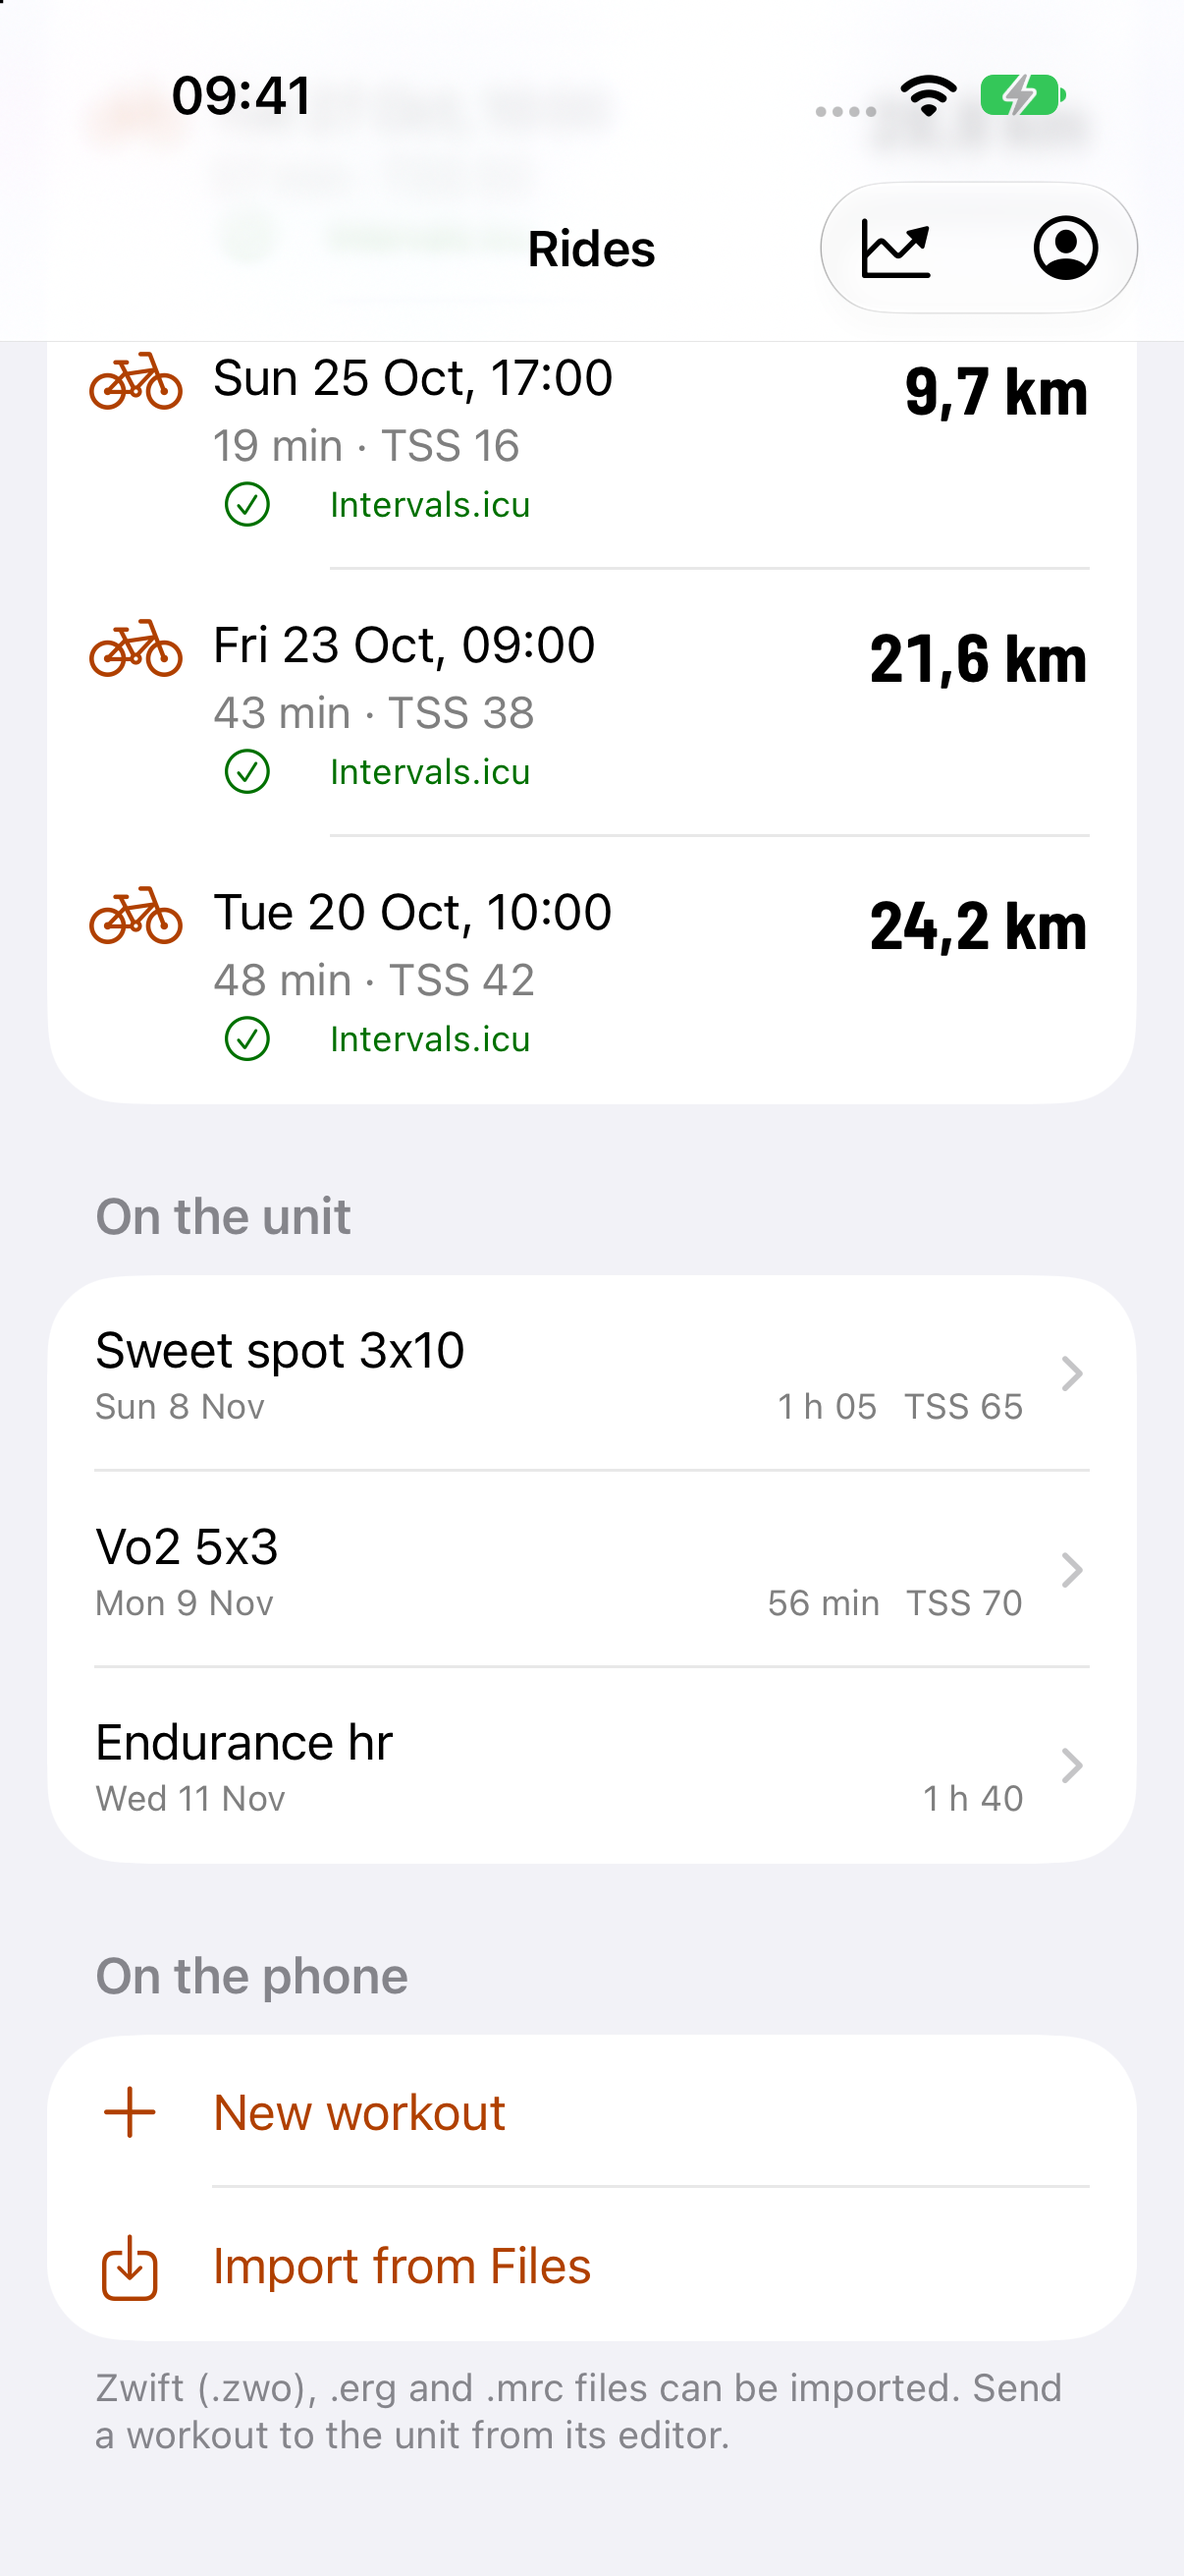
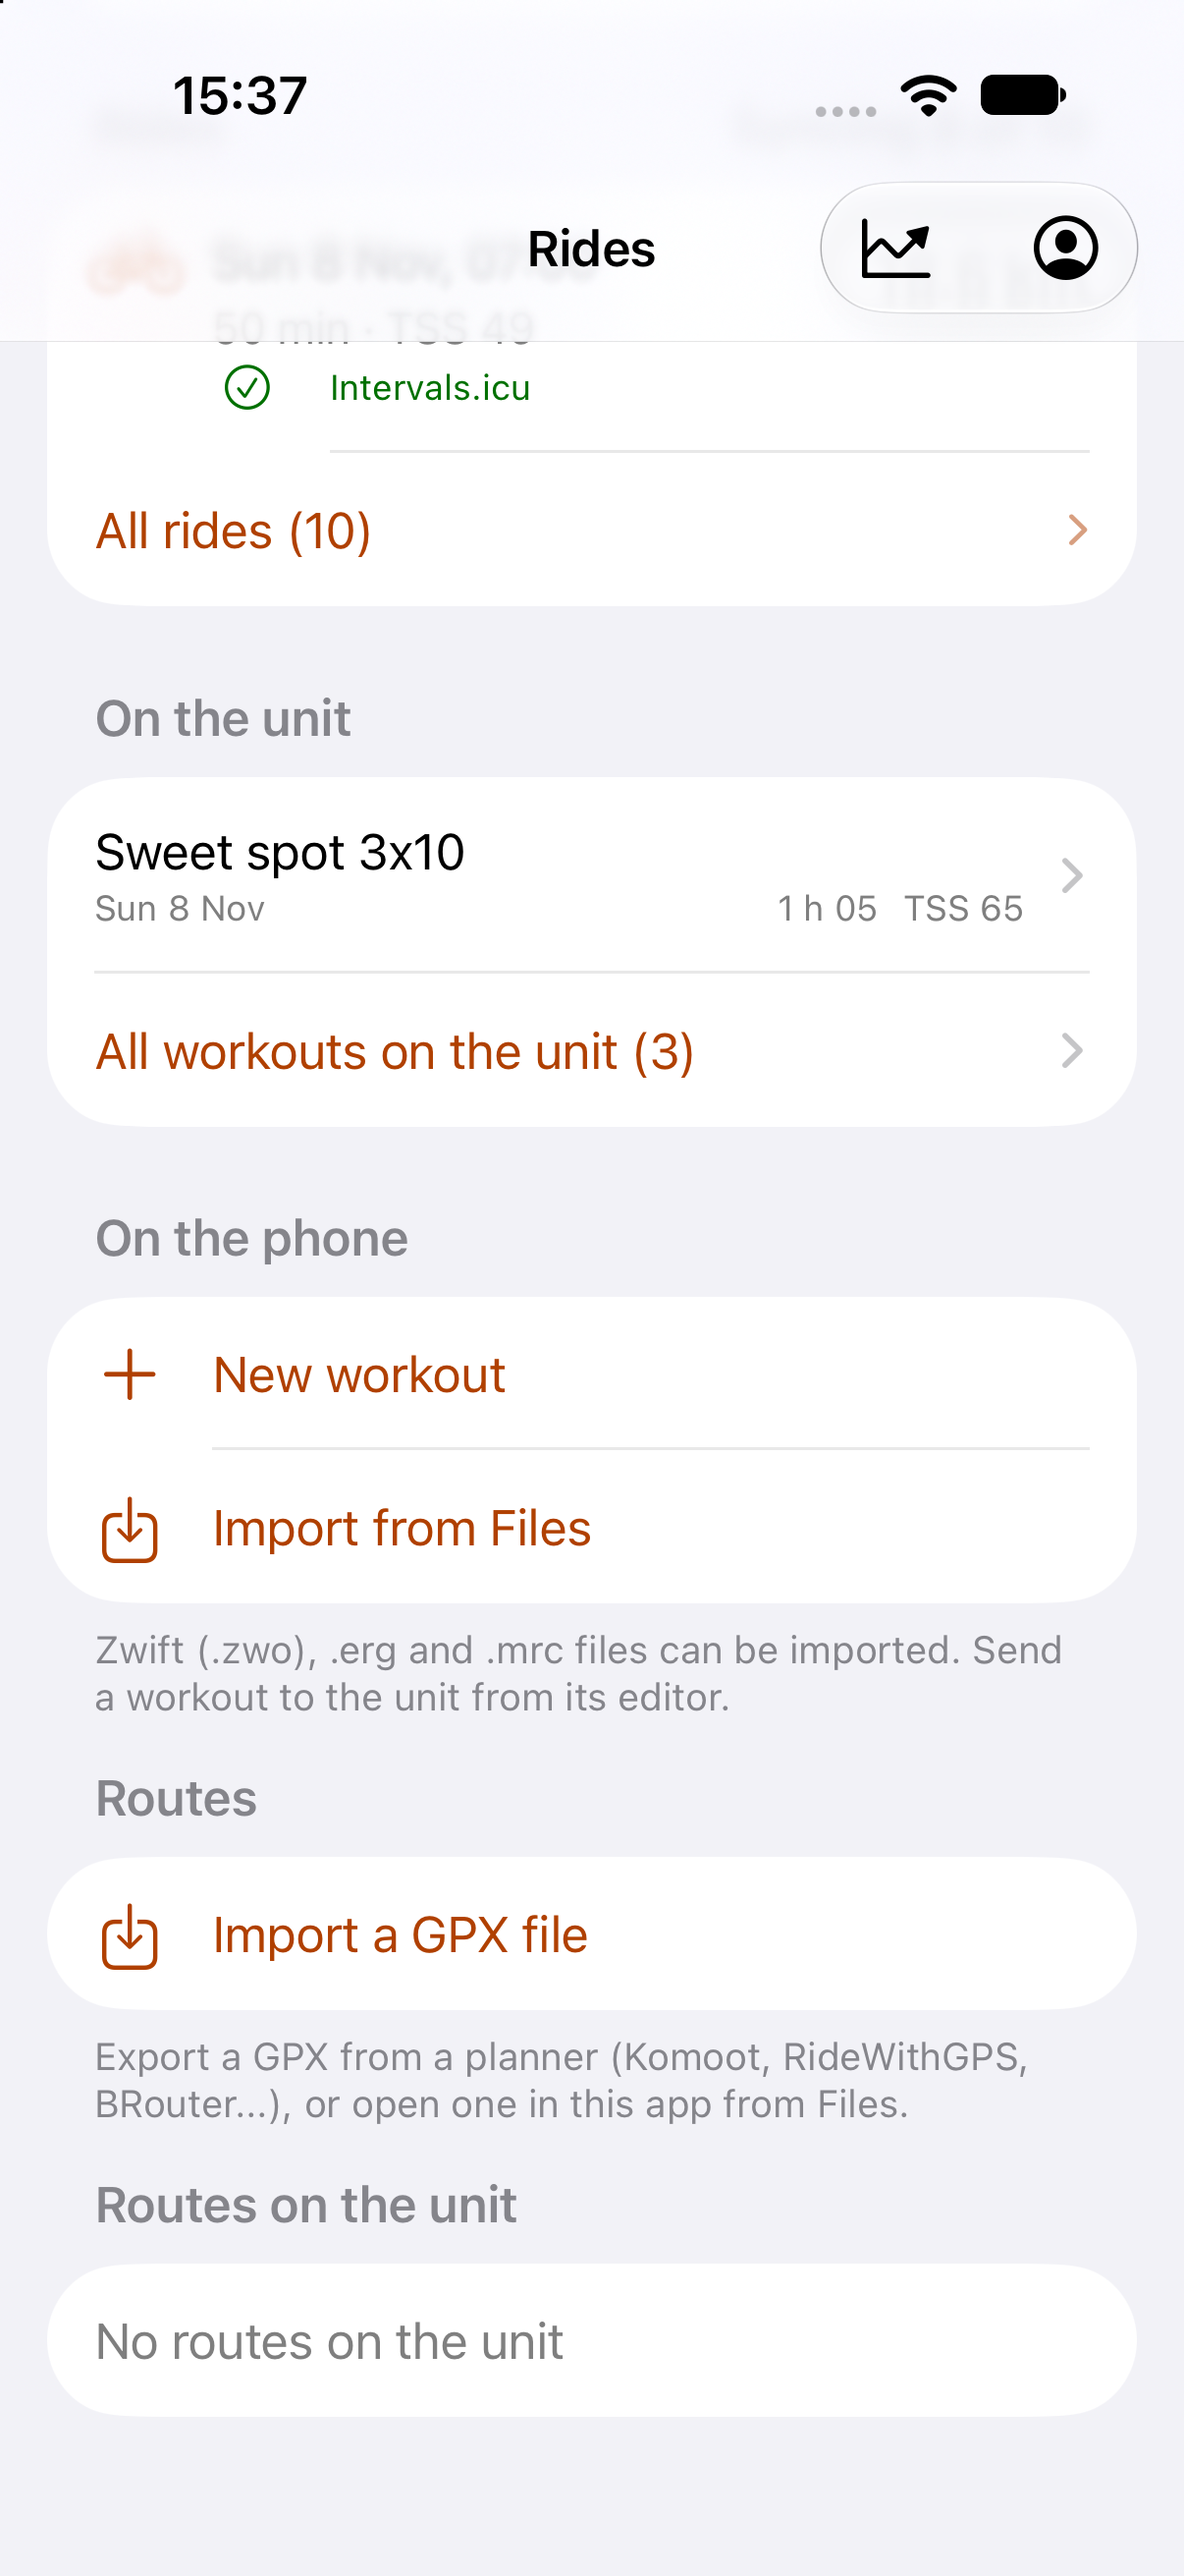
App home: workout lists show one row and an "All ... (N)" row
The home screen's workout lists are short now, as the rides list is: the unit shows the next planned workout
(today or the soonest later one, else the latest), the phone shows the most recently saved workout (the store
sorts by the file's date), and the Intervals.icu planned list shows the next one. Each has an "All" row that
pushes the full list with the same rows, taps, swipe and context-menu delete. Screenshots re-shot on an iPhone
18 Pro Simulator (iOS 27.0).

Claude-Session: https://claude.ai/code/session_01DQqFVzMBw6Vk4HjDjRrrTH

diff --git a/app/ios/App/WorkoutViews.swift b/app/ios/App/WorkoutViews.swift
@@ -20,37 +20,25 @@ func zoneColor(_ z: UInt8) -> Color { z >= 1 && z <= 7 ? Tok.zone(Int(z)) : .sec
 /// The unit keeps names in capitals: "SWEET SPOT 3X10" as "Sweet spot 3x10".
 func pretty(_ name: String) -> String { name.prefix(1) + name.dropFirst().lowercased() }
 
+/// The next of a list by its YYYYMMDD day (today or later, the soonest), else the latest.
+func nextWorkout<T>(_ items: [T], day: (T) -> Int) -> T? {
+    let c = Calendar.current.dateComponents([.year, .month, .day], from: .now)
+    let today = (c.year ?? 0) * 10000 + (c.month ?? 0) * 100 + (c.day ?? 0)
+    return items.filter { day($0) >= today }.min { day($0) < day($1) } ?? items.max { day($0) < day($1) }
+}
+
+/// The home screen's "On the unit": the next planned workout, then the row that pushes all of them.
 struct WorkoutSection: View {
     @ObservedObject var rides: RideBrowser
-    @EnvironmentObject private var profile: Profile
-    private var ftp: Int { profile.ftp }
-    private var maxHR: Int { profile.maxHR }
-    @State private var deleting: WorkoutFile?
-    @EnvironmentObject private var loop: IntervalsLoop
+
+    private var next: [WorkoutFile] { nextWorkout(rides.workouts, day: { Int($0.key.prefix(8)) ?? 0 }).map { [$0] } ?? [] }
 
     var body: some View {
         Section("On the unit") {
-            ForEach(rides.workouts) { f in
-                if let w = decodeWorkout(bytes: f.bytes, ftp: UInt16(clamping: ftp), maxHr: UInt16(clamping: maxHR)) {
-                    NavigationLink(value: WorkoutRoute(key: f.key)) {
-                        VStack(alignment: .leading, spacing: 2) {
-                            Text(pretty(w.name))
-                            if loop.sentHashes.contains(fileCrc(bytes: f.bytes)) {
-                                Text("from Intervals.icu").font(.caption).foregroundStyle(Tok.ok)
-                            }
-                            HStack {
-                                Text(Fmt.dayKey(f.key))
-                                Spacer()
-                                Text(Fmt.duration(UInt64(w.totalS)))
-                                if w.tss > 0 { Text("TSS \(w.tss)") }
-                            }
-                            .font(.caption)
-                            .foregroundStyle(.secondary)
-                        }
-                    }
-                    // only when nothing else uses the link: the same guard as a download
-                    .swipeActions { Button("Delete", role: .destructive) { deleting = f }.disabled(rides.phase != .idle) }
-                    .contextMenu { Button("Delete from the unit", systemImage: "trash", role: .destructive) { deleting = f }.disabled(rides.phase != .idle) }
+            WorkoutRows(rides: rides, list: next)
+            if !rides.workouts.isEmpty {
+                NavigationLink { AllWorkoutsList(rides: rides) } label: {
+                    Text("All workouts on the unit (\(rides.workouts.count))").foregroundStyle(Tok.accent)
                 }
             }
             if rides.workouts.isEmpty {
@@ -58,10 +46,47 @@ struct WorkoutSection: View {
                     .foregroundStyle(.secondary)
             }
         }
+    }
+}
+
+/// The unit's workouts as rows: a tap opens the page, swipe and long press ask to delete (a copy on the phone stays).
+struct WorkoutRows: View {
+    @ObservedObject var rides: RideBrowser
+    let list: [WorkoutFile]
+    @EnvironmentObject private var profile: Profile
+    private var ftp: Int { profile.ftp }
+    private var maxHR: Int { profile.maxHR }
+    @State private var deleting: WorkoutFile?
+    @EnvironmentObject private var loop: IntervalsLoop
+
+    var body: some View {
+        ForEach(list) { f in
+            if let w = decodeWorkout(bytes: f.bytes, ftp: UInt16(clamping: ftp), maxHr: UInt16(clamping: maxHR)) {
+                NavigationLink(value: WorkoutRoute(key: f.key)) {
+                    VStack(alignment: .leading, spacing: 2) {
+                        Text(pretty(w.name))
+                        if loop.sentHashes.contains(fileCrc(bytes: f.bytes)) {
+                            Text("from Intervals.icu").font(.caption).foregroundStyle(Tok.ok)
+                        }
+                        HStack {
+                            Text(Fmt.dayKey(f.key))
+                            Spacer()
+                            Text(Fmt.duration(UInt64(w.totalS)))
+                            if w.tss > 0 { Text("TSS \(w.tss)") }
+                        }
+                        .font(.caption)
+                        .foregroundStyle(.secondary)
+                    }
+                }
+                // only when nothing else uses the link: the same guard as a download
+                .swipeActions { Button("Delete", role: .destructive) { deleting = f }.disabled(rides.phase != .idle) }
+                .contextMenu { Button("Delete from the unit", systemImage: "trash", role: .destructive) { deleting = f }.disabled(rides.phase != .idle) }
+            }
+        }
         #if DEBUG
         .onAppear {  // Simulator screenshot: -demo-delete asks to delete the first workout
             if CommandLine.arguments.contains("-demo-delete") {
-                DispatchQueue.main.asyncAfter(deadline: .now() + 4) { deleting = rides.workouts.first }
+                DispatchQueue.main.asyncAfter(deadline: .now() + 4) { deleting = list.first }
             }
         }
         #endif
@@ -75,6 +100,17 @@ struct WorkoutSection: View {
         } message: {
             Text("A copy kept on the phone stays.")
         }
+    }
+}
+
+/// Every workout on the unit, pushed from the home screen's "All workouts on the unit" row.
+struct AllWorkoutsList: View {
+    @ObservedObject var rides: RideBrowser
+
+    var body: some View {
+        List { WorkoutRows(rides: rides, list: rides.workouts) }
+            .navigationTitle("All workouts")
+            .navigationBarTitleDisplayMode(.inline)
     }
 }
 

diff --git a/app/ios/App/WorkoutEditor.swift b/app/ios/App/WorkoutEditor.swift
@@ -34,9 +34,14 @@ final class WorkoutStore: ObservableObject {
 
     func reload() {
         let names = (try? FileManager.default.contentsOfDirectory(atPath: Self.dir.path)) ?? []
-        items = names.filter { $0.hasSuffix(".fit") }.sorted().compactMap { n in
-            (try? Data(contentsOf: Self.dir.appendingPathComponent(n))).map { LocalWorkout(file: n, bytes: $0) }
+        // newest saved first: the phone section shows the first one
+        let dated = names.filter { $0.hasSuffix(".fit") }.compactMap { n -> (LocalWorkout, Date)? in
+            let url = Self.dir.appendingPathComponent(n)
+            guard let bytes = try? Data(contentsOf: url) else { return nil }
+            let saved = (try? url.resourceValues(forKeys: [.contentModificationDateKey]))?.contentModificationDate ?? .distantPast
+            return (LocalWorkout(file: n, bytes: bytes), saved)
         }
+        items = dated.sorted { $0.1 != $1.1 ? $0.1 > $1.1 : $0.0.file < $1.0.file }.map(\.0)
     }
 
     /// Encodes and writes the draft; throws the core's refusal. A renamed workout leaves its old file.
@@ -79,13 +84,10 @@ private func message(_ e: Error) -> String {
     return "\(e)"
 }
 
-/// The "On the phone" section: the saved workouts, a new one, an import.
+/// The "On the phone" section: the most recently saved workout, the full list, a new one, an import.
 struct PhoneWorkoutSection: View {
     @ObservedObject var store: WorkoutStore
     let onEdit: (EditorTarget) -> Void
-    @EnvironmentObject private var profile: Profile
-    private var ftp: Int { profile.ftp }
-    private var maxHR: Int { profile.maxHR }
     @State private var importing = false
     @State private var problem: String?
     #if DEBUG
@@ -94,28 +96,10 @@ struct PhoneWorkoutSection: View {
 
     var body: some View {
         Section {
-            ForEach(store.items) { f in
-                if let w = decodeWorkout(bytes: f.bytes, ftp: UInt16(clamping: ftp), maxHr: UInt16(clamping: maxHR)) {
-                    Button { onEdit(EditorTarget(draft: draftFromView(view: w).named(pretty(w.name)), file: f.file)) } label: {
-                        HStack {
-                            Text(pretty(w.name))
-                            Spacer()
-                            Text(Fmt.duration(UInt64(w.totalS)))
-                            if w.tss > 0 { Text("TSS \(w.tss)") }
-                        }
-                        .font(.body)
-                    }
-                    .foregroundStyle(.primary)
-                    .swipeActions { Button("Delete", role: .destructive) { store.delete(f.file) } }
-                    .contextMenu { Button("Delete", systemImage: "trash", role: .destructive) { store.delete(f.file) } }
-                } else {
-                    // a saved file the reader refuses stays listed, so it can be deleted
-                    HStack {
-                        Text(f.file)
-                        Spacer()
-                        Notice(text: "Unreadable")
-                    }
-                    .swipeActions { Button("Delete", role: .destructive) { store.delete(f.file) } }
+            PhoneWorkoutRows(store: store, list: Array(store.items.prefix(1)), onEdit: onEdit)
+            if !store.items.isEmpty {
+                NavigationLink { AllPhoneWorkouts(store: store, onEdit: onEdit) } label: {
+                    Text("All workouts on the phone (\(store.items.count))").foregroundStyle(Tok.accent)
                 }
             }
             Button { onEdit(EditorTarget(draft: .blank, file: nil)) } label: { Label("New workout", systemImage: "plus") }
@@ -149,6 +133,55 @@ struct PhoneWorkoutSection: View {
         } footer: {
             Text("Zwift (.zwo), .erg and .mrc files can be imported. Send a workout to the unit from its editor.")
         }
+    }
+}
+
+/// The saved workouts as rows: a tap edits a copy, swipe and long press delete the saved file.
+struct PhoneWorkoutRows: View {
+    @ObservedObject var store: WorkoutStore
+    let list: [LocalWorkout]
+    let onEdit: (EditorTarget) -> Void
+    @EnvironmentObject private var profile: Profile
+    private var ftp: Int { profile.ftp }
+    private var maxHR: Int { profile.maxHR }
+
+    var body: some View {
+        ForEach(list) { f in
+            if let w = decodeWorkout(bytes: f.bytes, ftp: UInt16(clamping: ftp), maxHr: UInt16(clamping: maxHR)) {
+                Button { onEdit(EditorTarget(draft: draftFromView(view: w).named(pretty(w.name)), file: f.file)) } label: {
+                    HStack {
+                        Text(pretty(w.name))
+                        Spacer()
+                        Text(Fmt.duration(UInt64(w.totalS)))
+                        if w.tss > 0 { Text("TSS \(w.tss)") }
+                    }
+                    .font(.body)
+                }
+                .foregroundStyle(.primary)
+                .swipeActions { Button("Delete", role: .destructive) { store.delete(f.file) } }
+                .contextMenu { Button("Delete", systemImage: "trash", role: .destructive) { store.delete(f.file) } }
+            } else {
+                // a saved file the reader refuses stays listed, so it can be deleted
+                HStack {
+                    Text(f.file)
+                    Spacer()
+                    Notice(text: "Unreadable")
+                }
+                .swipeActions { Button("Delete", role: .destructive) { store.delete(f.file) } }
+            }
+        }
+    }
+}
+
+/// Every workout saved on the phone, pushed from the "On the phone" section's row.
+struct AllPhoneWorkouts: View {
+    @ObservedObject var store: WorkoutStore
+    let onEdit: (EditorTarget) -> Void
+
+    var body: some View {
+        List { PhoneWorkoutRows(store: store, list: store.items, onEdit: onEdit) }
+            .navigationTitle("All workouts")
+            .navigationBarTitleDisplayMode(.inline)
     }
 }
 

diff --git a/app/ios/App/IntervalsViews.swift b/app/ios/App/IntervalsViews.swift
@@ -15,18 +15,10 @@ struct IntervalsSection: View {
                 if let e = loop.uploadError { Notice(text: e).font(.footnote) }
                 row("Calendar", calendar)
                 if let e = loop.calendarError { Notice(text: e).font(.footnote) }
-                ForEach(loop.planned) { p in
-                    VStack(alignment: .leading, spacing: 2) {
-                        HStack {
-                            Text(pretty(p.name))
-                            Spacer()
-                            Text(Fmt.dayKey(p.day)).foregroundStyle(.secondary)
-                        }
-                        switch p.state {
-                        case .onUnit: Text("On the unit").font(.caption).foregroundStyle(Tok.ok)
-                        case .waiting: Text("Waiting for the unit").font(.caption).foregroundStyle(.secondary)
-                        case .refused(let why): Notice(text: "Not sent: \(why)").font(.caption)
-                        }
+                if let next = nextWorkout(loop.planned, day: { Int($0.day) ?? 0 }) { PlannedRows(list: [next]) }
+                if !loop.planned.isEmpty {
+                    NavigationLink { AllPlanned(loop: loop) } label: {
+                        Text("All planned (\(loop.planned.count))").foregroundStyle(Tok.accent)
                     }
                 }
             }
@@ -46,6 +38,39 @@ struct IntervalsSection: View {
 
     private func row(_ k: String, _ v: String) -> some View {
         HStack { Text(k).foregroundStyle(.secondary); Spacer(); Text(v) }.font(.subheadline)
+    }
+}
+
+/// Planned workouts, one row each: the name, its day, and where it stands on the unit.
+struct PlannedRows: View {
+    let list: [PlannedItem]
+
+    var body: some View {
+        ForEach(list) { p in
+            VStack(alignment: .leading, spacing: 2) {
+                HStack {
+                    Text(pretty(p.name))
+                    Spacer()
+                    Text(Fmt.dayKey(p.day)).foregroundStyle(.secondary)
+                }
+                switch p.state {
+                case .onUnit: Text("On the unit").font(.caption).foregroundStyle(Tok.ok)
+                case .waiting: Text("Waiting for the unit").font(.caption).foregroundStyle(.secondary)
+                case .refused(let why): Notice(text: "Not sent: \(why)").font(.caption)
+                }
+            }
+        }
+    }
+}
+
+/// Every planned workout, pushed from the Intervals.icu section's "All planned" row.
+struct AllPlanned: View {
+    @ObservedObject var loop: IntervalsLoop
+
+    var body: some View {
+        List { PlannedRows(list: loop.planned) }
+            .navigationTitle("Planned")
+            .navigationBarTitleDisplayMode(.inline)
     }
 }
 

diff --git a/docs/app.md b/docs/app.md
@@ -296,6 +296,8 @@ BLE_GATTS_EVT_SC_CONFIRM (0x54) after every indication, and Bryton's chip app ha
 
 ## Workouts
 
+The home screen shows the next planned workout on the unit (today's or the soonest later one, else the latest), the most recently saved workout on the phone and the next planned Intervals.icu workout, each with an "All ... (N)" row that pushes the full list.
+
 The planned workouts on the unit, seen from the phone (roadmap 9), and since 2026-11-07 sent and deleted from it
 (the firmware's side; the app's editor is the next step).
 Stock keeps them in `\Workout\calendar\<YYYYMMDD>\<name>.fit`, long names and one folder a day, so the file service
